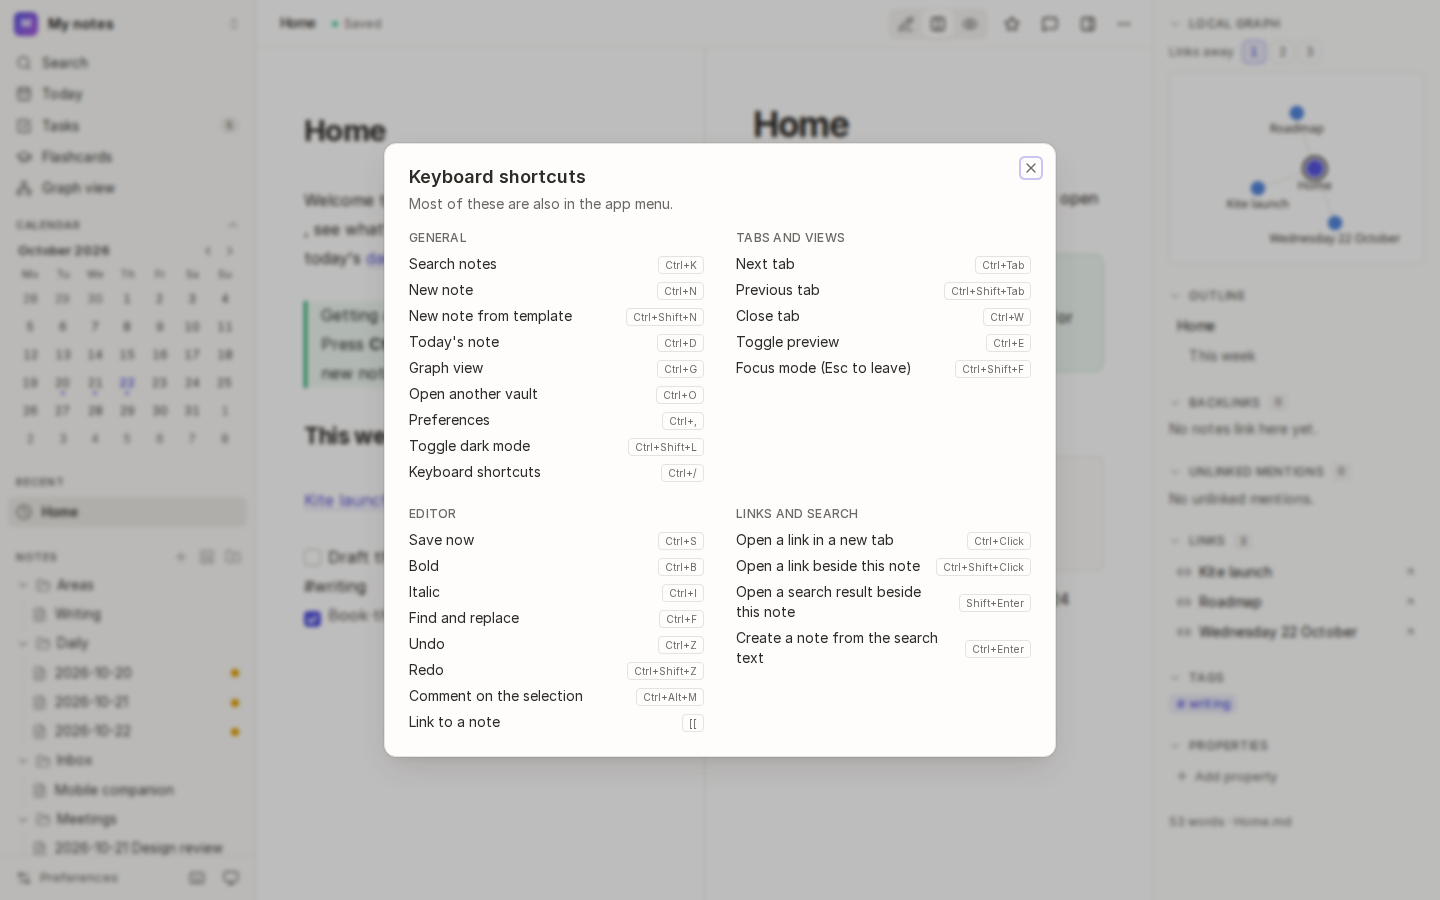
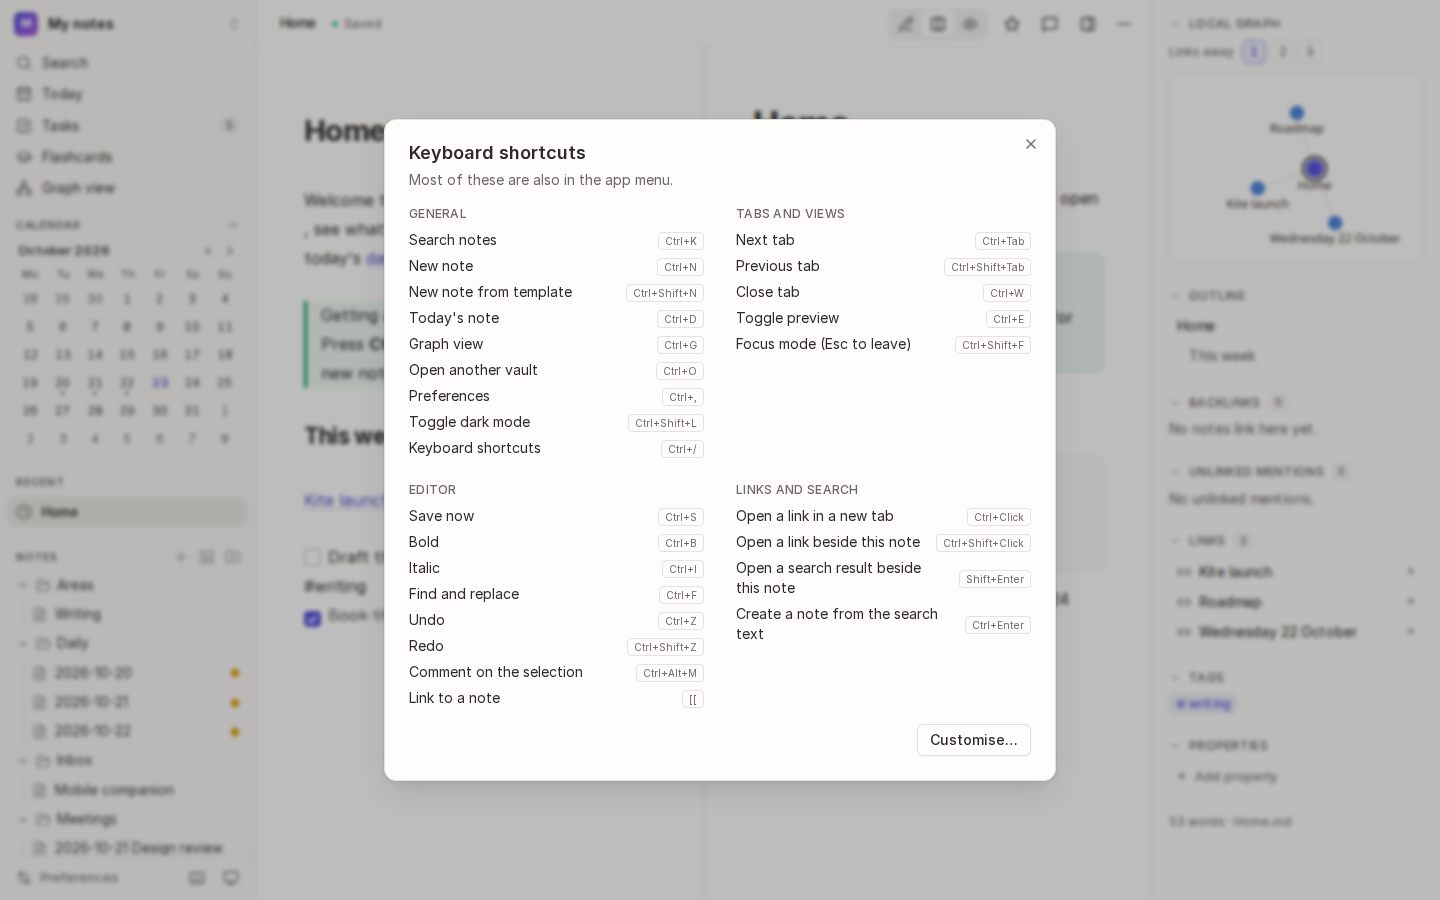
docs: screenshots of canvas flowcharts and customising shortcuts
The manual's screenshot suite now draws a release flowchart with every
kind of shape and connection, and opens the shortcuts dialog's Customise
view. The shortcuts screenshot is retaken to show the Customise button.

diff --git a/tests/Manual/ScreenshotsTest.php b/tests/Manual/ScreenshotsTest.php
@@ -9,6 +9,7 @@ use App\Actions\SaveNote;
 use App\Models\Note;
 use App\Models\TableView;
 use App\Models\Vault;
+use App\Services\Canvases;
 use App\Services\NoteLocks;
 use Illuminate\Support\Facades\File;
 use Tests\Support\DemoVault;
@@ -184,6 +185,38 @@ it('shows canvases', function (): void {
     $page = visit(route('canvases.show', [$this->vault, 'Launch plan.canvas']));
     framed($page)->click('[aria-label="Show everything"]')->wait(1);
     shoot($page, 'canvas');
+
+    $shape = fn (string $id, string $shape, string $text, int $x, int $y, int $width = 200, int $height = 90, array $extra = []): array => [
+        'id' => $id, 'type' => 'text', 'text' => $text, 'x' => $x, 'y' => $y, 'width' => $width, 'height' => $height,
+        'styleAttributes' => ['shape' => $shape], ...$extra,
+    ];
+    $edge = fn (string $id, string $from, string $fromSide, string $to, string $toSide, array $extra = []): array => [
+        'id' => $id, 'fromNode' => $from, 'fromSide' => $fromSide, 'toNode' => $to, 'toSide' => $toSide, 'toEnd' => 'arrow', ...$extra,
+    ];
+    resolve(Canvases::class)->write($this->vault, 'Release flow.canvas', [
+        $shape('start', 'pill', 'Start', 0, 20, 180, 70),
+        $shape('draft', 'rectangle', 'Write the release notes', 260, 10),
+        $shape('ready', 'diamond', 'Reviewed?', 540, -5, 200, 120, ['color' => '5']),
+        $shape('publish', 'parallelogram', 'Publish the update', 820, 10, 220),
+        $shape('feed', 'database', 'Update feed', 860, 200, 140, 120),
+        $shape('done', 'pill', 'Done', 540, 220, 180, 70),
+        $shape('notes', 'document', 'Changelog', 260, 200, 200, 100),
+    ], [
+        $edge('e1', 'start', 'right', 'draft', 'left'),
+        $edge('e2', 'draft', 'right', 'ready', 'left'),
+        $edge('e3', 'ready', 'right', 'publish', 'left', ['label' => 'yes']),
+        $edge('e4', 'ready', 'top', 'draft', 'top', ['label' => 'no', 'styleAttributes' => ['path' => 'long-dashed']]),
+        $edge('e5', 'publish', 'bottom', 'feed', 'top'),
+        $edge('e6', 'feed', 'left', 'done', 'right'),
+        $edge('e7', 'draft', 'bottom', 'notes', 'top', ['fromEnd' => 'arrow', 'styleAttributes' => ['path' => 'dotted']]),
+    ]);
+
+    $page = visit(route('canvases.show', [$this->vault, 'Release flow.canvas']));
+    framed($page)->click('[aria-label="Show everything"]')->wait(1);
+    // Select the "yes" connection, so the toolbar shows its arrow and line choices.
+    $page->script("document.querySelector('[data-edge-id=e3] path').dispatchEvent(new PointerEvent('pointerdown', { bubbles: true }))");
+    $page->wait(0.3);
+    shoot($page, 'canvas-flowchart');
 });
 
 it('shows flashcards', function (): void {
@@ -276,6 +309,11 @@ it('shows preferences and shortcuts', function (): void {
     $page = visit(noteUrl($this->vault, 'Home.md'));
     framed($page)->click('@shortcuts-link')->wait(0.5);
     shoot($page, 'shortcuts');
+
+    $page->click('@customise-shortcuts')
+        ->click('@record-shortcut-graph')
+        ->wait(0.3);
+    shoot($page, 'shortcuts-customise');
 
     $page = visit(noteUrl($this->vault, 'Projects/Kite launch.md'))->inDarkMode();
     shoot(framed($page), 'dark-mode');
